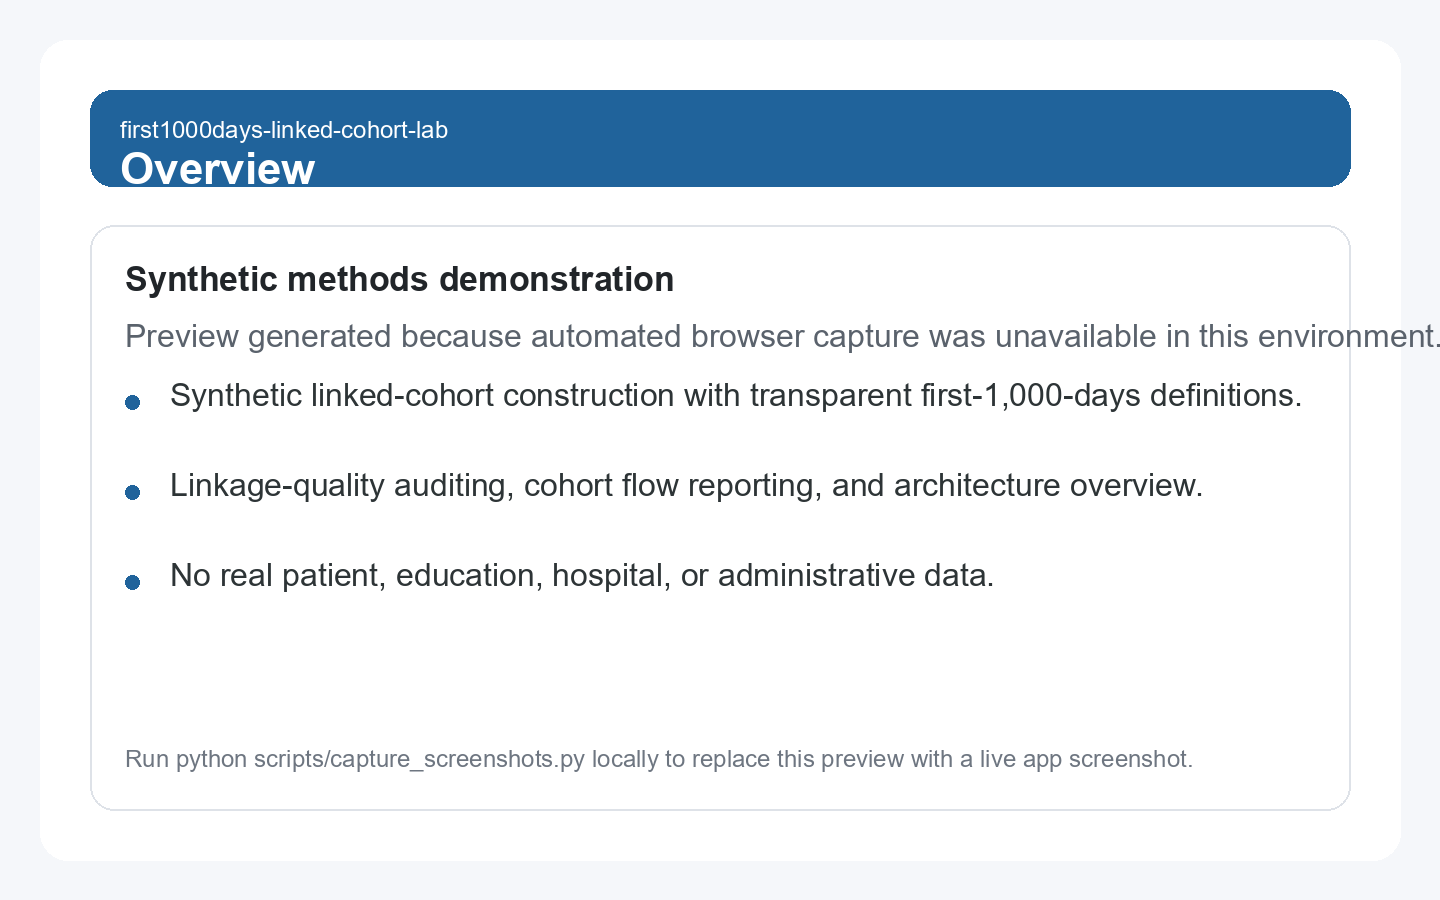
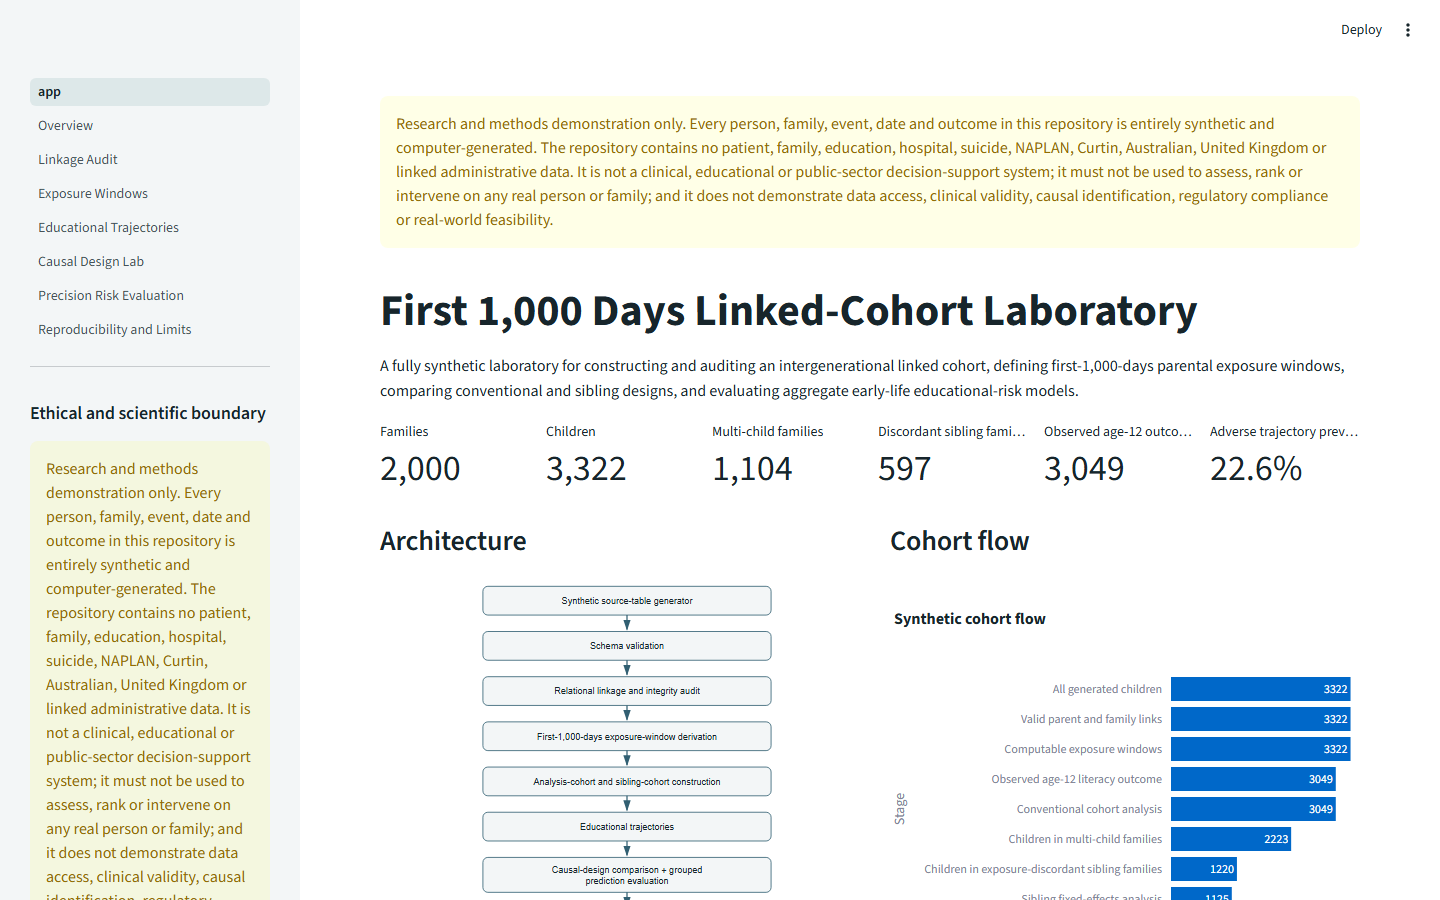
Update final screenshots and synthetic outputs

diff --git a/scripts/capture_screenshots.py b/scripts/capture_screenshots.py
@@ -13,11 +13,11 @@ from urllib.request import urlopen
 from PIL import Image, ImageDraw, ImageFont
 
 ROOT = Path(__file__).resolve().parents[1]
+CHROME_PATH = Path("C:/Program Files/Google/Chrome/Application/chrome.exe")
 
 
 def load_font(size: int, bold: bool = False) -> ImageFont.FreeTypeFont | ImageFont.ImageFont:
     """Load a broadly available system font and fall back safely."""
-
     candidates = [
         Path("C:/Windows/Fonts/arialbd.ttf" if bold else "C:/Windows/Fonts/arial.ttf"),
         Path("/usr/share/fonts/truetype/dejavu/DejaVuSans-Bold.ttf" if bold else "/usr/share/fonts/truetype/dejavu/DejaVuSans.ttf"),
@@ -30,7 +30,6 @@ def load_font(size: int, bold: bool = False) -> ImageFont.FreeTypeFont | ImageFo
 
 def placeholder(path: Path, title: str, bullets: list[str], accent: tuple[int, int, int]) -> None:
     """Create a clean preview card when browser automation is unavailable."""
-
     width, height = 1440, 900
     image = Image.new("RGB", (width, height), (245, 247, 250))
     draw = ImageDraw.Draw(image)
@@ -71,7 +70,6 @@ def placeholder(path: Path, title: str, bullets: list[str], accent: tuple[int, i
 
 def streamlit_log_tail(process: subprocess.Popen[str], limit: int = 2000) -> str:
     """Return the most useful available tail of Streamlit startup output."""
-
     if process.stdout is None:
         return "No Streamlit stdout was captured."
     output = process.stdout.read()
@@ -82,19 +80,82 @@ def streamlit_log_tail(process: subprocess.Popen[str], limit: int = 2000) -> str
 
 
 def wait_for_health(process: subprocess.Popen[str], url: str, timeout: int = 60) -> None:
+    """Wait for Streamlit health endpoint to become ready."""
     start = time.time()
     while time.time() - start < timeout:
         if process.poll() is not None:
             tail = streamlit_log_tail(process)
             raise RuntimeError(f"Streamlit exited before becoming ready (exit code {process.returncode}).\n{tail}")
         try:
-            with urlopen(url, timeout=2) as response:  # noqa: S310 - local health endpoint only
+            with urlopen(url, timeout=2) as response:
                 if response.status == 200:
                     return
         except Exception:
             time.sleep(0.5)
     tail = streamlit_log_tail(process)
     raise TimeoutError(f"Streamlit health endpoint did not become ready: {url}\n{tail}")
+
+
+def capture_screenshots_with_playwright(output: Path, port: int) -> None:
+    """Capture screenshots using Playwright with Chrome."""
+    from playwright.sync_api import sync_playwright
+    
+    if not CHROME_PATH.exists():
+        raise FileNotFoundError(f"Chrome not found at {CHROME_PATH}. Please install Google Chrome.")
+    
+    with sync_playwright() as playwright:
+        browser = playwright.chromium.launch(
+            executable_path=str(CHROME_PATH),
+            headless=True,
+            args=[
+                "--no-sandbox",
+                "--disable-dev-shm-usage",
+                "--disable-gpu",
+                "--window-size=1440,900"
+            ]
+        )
+        
+        try:
+            context = browser.new_context(
+                viewport={"width": 1440, "height": 900},
+                device_scale_factor=1
+            )
+            page = context.new_page()
+            
+            # صفحه اصلی
+            print("📄 Navigating to main page...")
+            page.goto(f"http://127.0.0.1:{port}", wait_until="networkidle")
+            
+            # ⭐ صبر ۱۰ ثانیه برای بارگذاری کامل
+            print("⏳ Waiting 10 seconds for page to fully load...")
+            time.sleep(20)
+            
+            # اسکرینشات اصلی
+            print("📸 Capturing overview.png...")
+            page.screenshot(path=str(output / "overview.png"), full_page=True)
+            print("✅ overview.png captured")
+            
+            # اسکرینشات سایر صفحات
+            for label, filename in [
+                ("Causal Design Lab", "causal_design_lab.png"),
+                ("Precision Risk Evaluation", "prediction_evaluation.png"),
+            ]:
+                try:
+                    print(f"📄 Navigating to '{label}'...")
+                    page.get_by_text(label, exact=True).first.click()
+                    
+                    # ⭐ صبر ۱۰ ثانیه برای بارگذاری هر صفحه
+                    print("⏳ Waiting 10 seconds for page to load...")
+                    time.sleep(20)
+                    
+                    print(f"📸 Capturing {filename}...")
+                    page.screenshot(path=str(output / filename), full_page=True)
+                    print(f"✅ {filename} captured")
+                except Exception as e:
+                    print(f"⚠️ Could not capture {filename}: {e}")
+            
+        finally:
+            browser.close()
 
 
 def main() -> None:
@@ -104,6 +165,8 @@ def main() -> None:
     args = parser.parse_args()
     output = args.root / "assets" / "screenshots"
     output.mkdir(parents=True, exist_ok=True)
+    
+    # راهاندازی Streamlit
     command = [
         sys.executable,
         "-m",
@@ -114,64 +177,80 @@ def main() -> None:
         str(args.port),
         "--server.headless",
         "true",
+        "--logger.level",
+        "error",
     ]
-    process = subprocess.Popen(command, cwd=args.root, stdout=subprocess.PIPE, stderr=subprocess.STDOUT, text=True)
+    
+    process = subprocess.Popen(
+        command, 
+        cwd=args.root, 
+        stdout=subprocess.PIPE, 
+        stderr=subprocess.STDOUT, 
+        text=True,
+        encoding='utf-8',
+        errors='ignore'
+    )
+    
     try:
+        print(f"⏳ Starting Streamlit on port {args.port}...")
         wait_for_health(process, f"http://127.0.0.1:{args.port}/_stcore/health")
-        from playwright.sync_api import sync_playwright
-
-        with sync_playwright() as playwright:
-            browser = playwright.chromium.launch(headless=True, executable_path="/usr/bin/chromium", args=["--no-sandbox"])
-            page = browser.new_page(viewport={"width": 1440, "height": 900}, device_scale_factor=1)
-            page.goto(f"http://127.0.0.1:{args.port}", wait_until="networkidle")
-            page.screenshot(path=str(output / "overview.png"), full_page=True)
-            for label, filename in [
-                ("Causal Design Lab", "causal_design_lab.png"),
-                ("Precision Risk Evaluation", "prediction_evaluation.png"),
-            ]:
-                page.get_by_text(label, exact=True).first.click()
-                page.wait_for_timeout(2500)
-                page.screenshot(path=str(output / filename), full_page=True)
-            browser.close()
-        print(f"Captured screenshots in {output}")
+        print("✅ Streamlit is ready!")
+        
+        print("📸 Capturing screenshots with Playwright...")
+        capture_screenshots_with_playwright(output, args.port)
+        print(f"🎉 All screenshots captured successfully in {output}")
+        
+    except FileNotFoundError as e:
+        print(f"❌ {e}")
+        print("💡 Please install Google Chrome from: https://www.google.com/chrome/")
+        create_placeholders(output)
+        
     except Exception as exc:
-        placeholder(
-            output / "overview.png",
-            "Overview",
-            [
-                "Synthetic linked-cohort construction with transparent first-1,000-days definitions.",
-                "Linkage-quality auditing, cohort flow reporting, and architecture overview.",
-                "No real patient, education, hospital, or administrative data.",
-            ],
-            accent=(32, 99, 155),
-        )
-        placeholder(
-            output / "causal_design_lab.png",
-            "Causal Design Lab",
-            [
-                "Side-by-side synthetic comparison of naive, adjusted, and sibling designs.",
-                "Known simulation truth retained outside routine analyses.",
-                "Results labelled as methods demonstration rather than empirical inference.",
-            ],
-            accent=(34, 139, 120),
-        )
-        placeholder(
-            output / "prediction_evaluation.png",
-            "Precision Risk Evaluation",
-            [
-                "Family-grouped discrimination, calibration, and subgroup summaries.",
-                "Aggregate evaluation only with no individual risk ranking or intervention use.",
-                "Synthetic early-life educational-trajectory target rather than suicide prediction.",
-            ],
-            accent=(180, 95, 45),
-        )
-        print(f"Browser capture failed; polished preview cards created instead: {exc}")
+        print(f"⚠️ Browser capture failed; creating preview cards instead: {exc}")
+        create_placeholders(output)
+        
     finally:
         process.terminate()
         try:
-            process.wait(timeout=10)
+            process.wait(timeout=20)
         except subprocess.TimeoutExpired:
             process.kill()
+            print("⚠️ Streamlit process killed")
+
+
+def create_placeholders(output: Path) -> None:
+    """Create placeholder images for all pages."""
+    placeholder(
+        output / "overview.png",
+        "Overview",
+        [
+            "Synthetic linked-cohort construction with transparent first-1,000-days definitions.",
+            "Linkage-quality auditing, cohort flow reporting, and architecture overview.",
+            "No real patient, education, hospital, or administrative data.",
+        ],
+        accent=(32, 99, 155),
+    )
+    placeholder(
+        output / "causal_design_lab.png",
+        "Causal Design Lab",
+        [
+            "Side-by-side synthetic comparison of naive, adjusted, and sibling designs.",
+            "Known simulation truth retained outside routine analyses.",
+            "Results labelled as methods demonstration rather than empirical inference.",
+        ],
+        accent=(34, 139, 120),
+    )
+    placeholder(
+        output / "prediction_evaluation.png",
+        "Precision Risk Evaluation",
+        [
+            "Family-grouped discrimination, calibration, and subgroup summaries.",
+            "Aggregate evaluation only with no individual risk ranking or intervention use.",
+            "Synthetic early-life educational-trajectory target rather than suicide prediction.",
+        ],
+        accent=(180, 95, 45),
+    )
+    print("📋 Polished preview cards created successfully")
 
 
 if __name__ == "__main__":